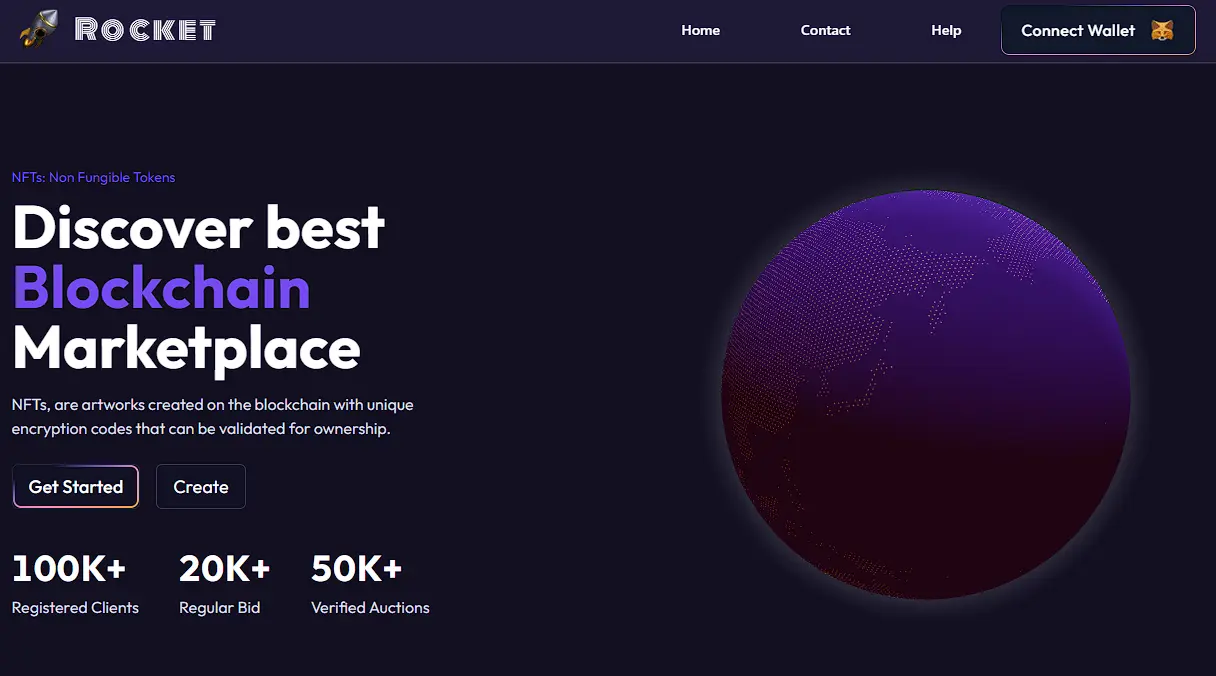
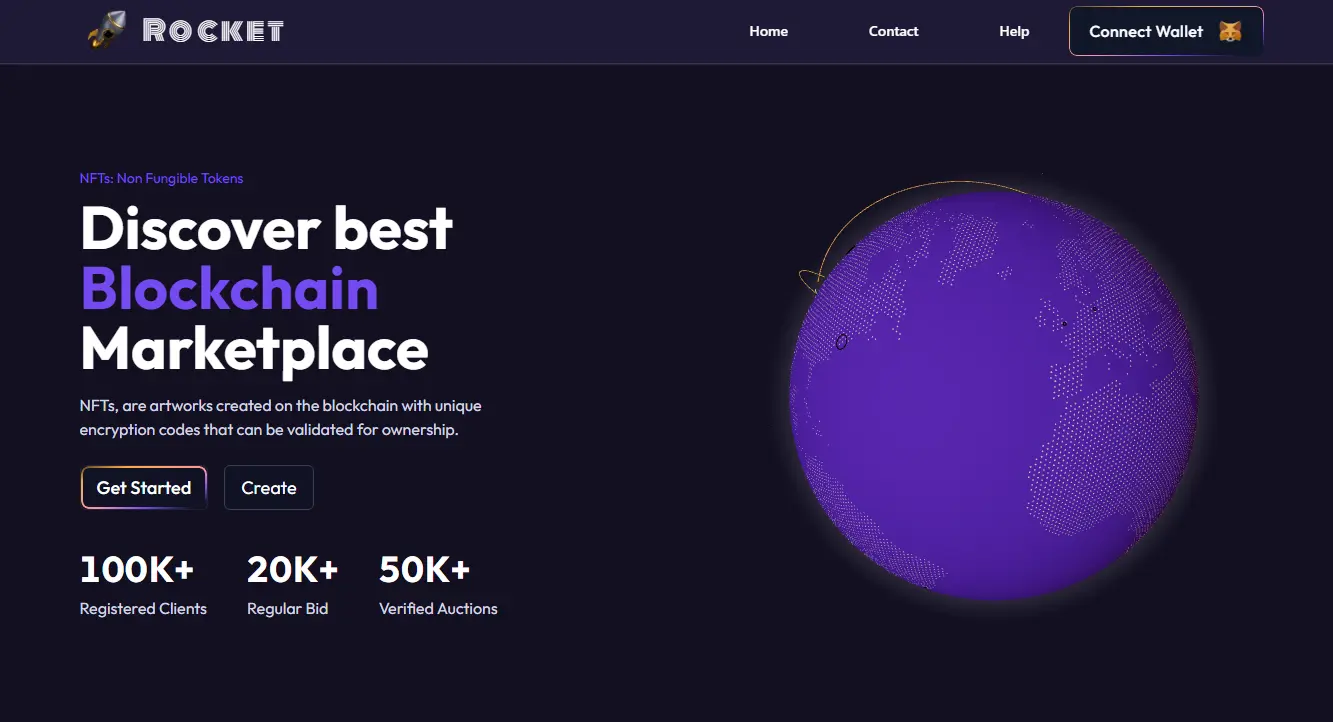
Add navigation active link

diff --git a/components/sub/HeroContent.tsx b/components/sub/HeroContent.tsx
@@ -37,8 +37,15 @@ export default function HeroContent() {
           <div className="flex max-w-[460px] flex-col items-start gap-4 font-semibold xs:mx-auto md:max-w-none">
             <span
               itemProp="email"
-              className="rounded-md border border-[#B49BFF]/70 bg-gradient-to-r from-purple-300 to-amber-400 bg-clip-text px-[16px] py-2 tracking-wide text-transparent"
+              className="flex items-center gap-2 rounded-md border border-[#B49BFF]/70 bg-gradient-to-r from-purple-300 to-amber-400 bg-clip-text px-[16px] py-2 tracking-wide text-transparent"
             >
+              <Image
+                src="/svgs/email.svg"
+                alt=""
+                width={18}
+                height={18}
+                className="stroke-purple-300"
+              />
               jhonquenano27@gmail.com
             </span>
 
@@ -46,7 +53,14 @@ export default function HeroContent() {
               pulseColor="#FBBF24"
               className="bg-transparent tracking-wider"
             >
-              <span className="bg-gradient-to-r from-purple-300 to-amber-400 bg-clip-text text-transparent">
+              <span className="flex items-center gap-2 bg-gradient-to-r from-purple-300 to-amber-400 bg-clip-text text-transparent">
+                <Image
+                  src="/svgs/resume.svg"
+                  alt=""
+                  width={18}
+                  height={18}
+                  className="stroke-purple-300"
+                />
                 Résumé CV
               </span>
             </PulseLink>

diff --git a/components/main/navigation/DesktopNav.tsx b/components/main/navigation/DesktopNav.tsx
@@ -1,7 +1,14 @@
+"use client";
+
+import { usePathname } from "next/navigation";
 import Link from "next/link";
+
 import { navigation } from "@/constants";
+import clsx from "clsx";
 
 export default function DesktopNav() {
+  const pathname = usePathname();
+
   return (
     <div className="w-[140px] rounded-md border border-none">
       <nav itemScope itemType="https://schema.org/SiteNavigationElement">
@@ -10,7 +17,10 @@ export default function DesktopNav() {
             <li key={label} itemProp="name">
               <Link
                 href={route}
-                className="block text-[15px] font-bold tracking-wide outline-none md:text-[16px]"
+                className={clsx(
+                  "block text-[15px] font-bold tracking-wide outline-none md:text-base",
+                  pathname === route ? "text-amber-500" : "text-gray-100",
+                )}
                 itemProp="url"
               >
                 {label}

diff --git a/components/main/Footer.tsx b/components/main/Footer.tsx
@@ -1,6 +1,6 @@
 export default function Footer() {
   return (
-    <div className="pb-6 pt-16 text-center font-medium text-gray-400">
+    <div className="pb-6 pt-16 text-center text-sm font-medium text-gray-400">
       <p>
         Created from my
         <span className="text-rose-400"> Hearth</span> &
@@ -8,8 +8,8 @@ export default function Footer() {
       </p>
       <p>
         <meta itemProp="copyrightYear" content="2024" />
-        Copyright © 2024 Design, Inspired, Developed by
-        <span itemProp="creator" className="text-amber-400">
+        Copyright © 2024 Design, Inspired, Developed by{" "}
+        <span itemProp="creator" className="block text-amber-400 xs:inline">
           Jhon Queñano
         </span>
         .

diff --git a/components/sub/SkillsContent.tsx b/components/sub/SkillsContent.tsx
@@ -32,12 +32,7 @@ export default function SkillsContent() {
                   itemProp="knowsAbout"
                   className="flex items-center gap-2 rounded-md border border-[#B49BFF]/50 px-3 py-1 text-[15px]"
                 >
-                  <Image
-                    src={skill.svg}
-                    alt={skill.name}
-                    height={16}
-                    width={16}
-                  />
+                  <Image src={skill.svg} alt="" height={16} width={16} />
                   {skill.name}
                 </li>
               ))}

diff --git a/app/page.tsx b/app/page.tsx
@@ -1,10 +1,5 @@
-import dynamic from "next/dynamic";
 import Hero from "@/components/main/Hero";
 import Skills from "@/components/main/Skills";
-
-const Particles = dynamic(() => import("@/components/animation/Particles"), {
-  ssr: false,
-});
 
 export default function Home() {
   return (
